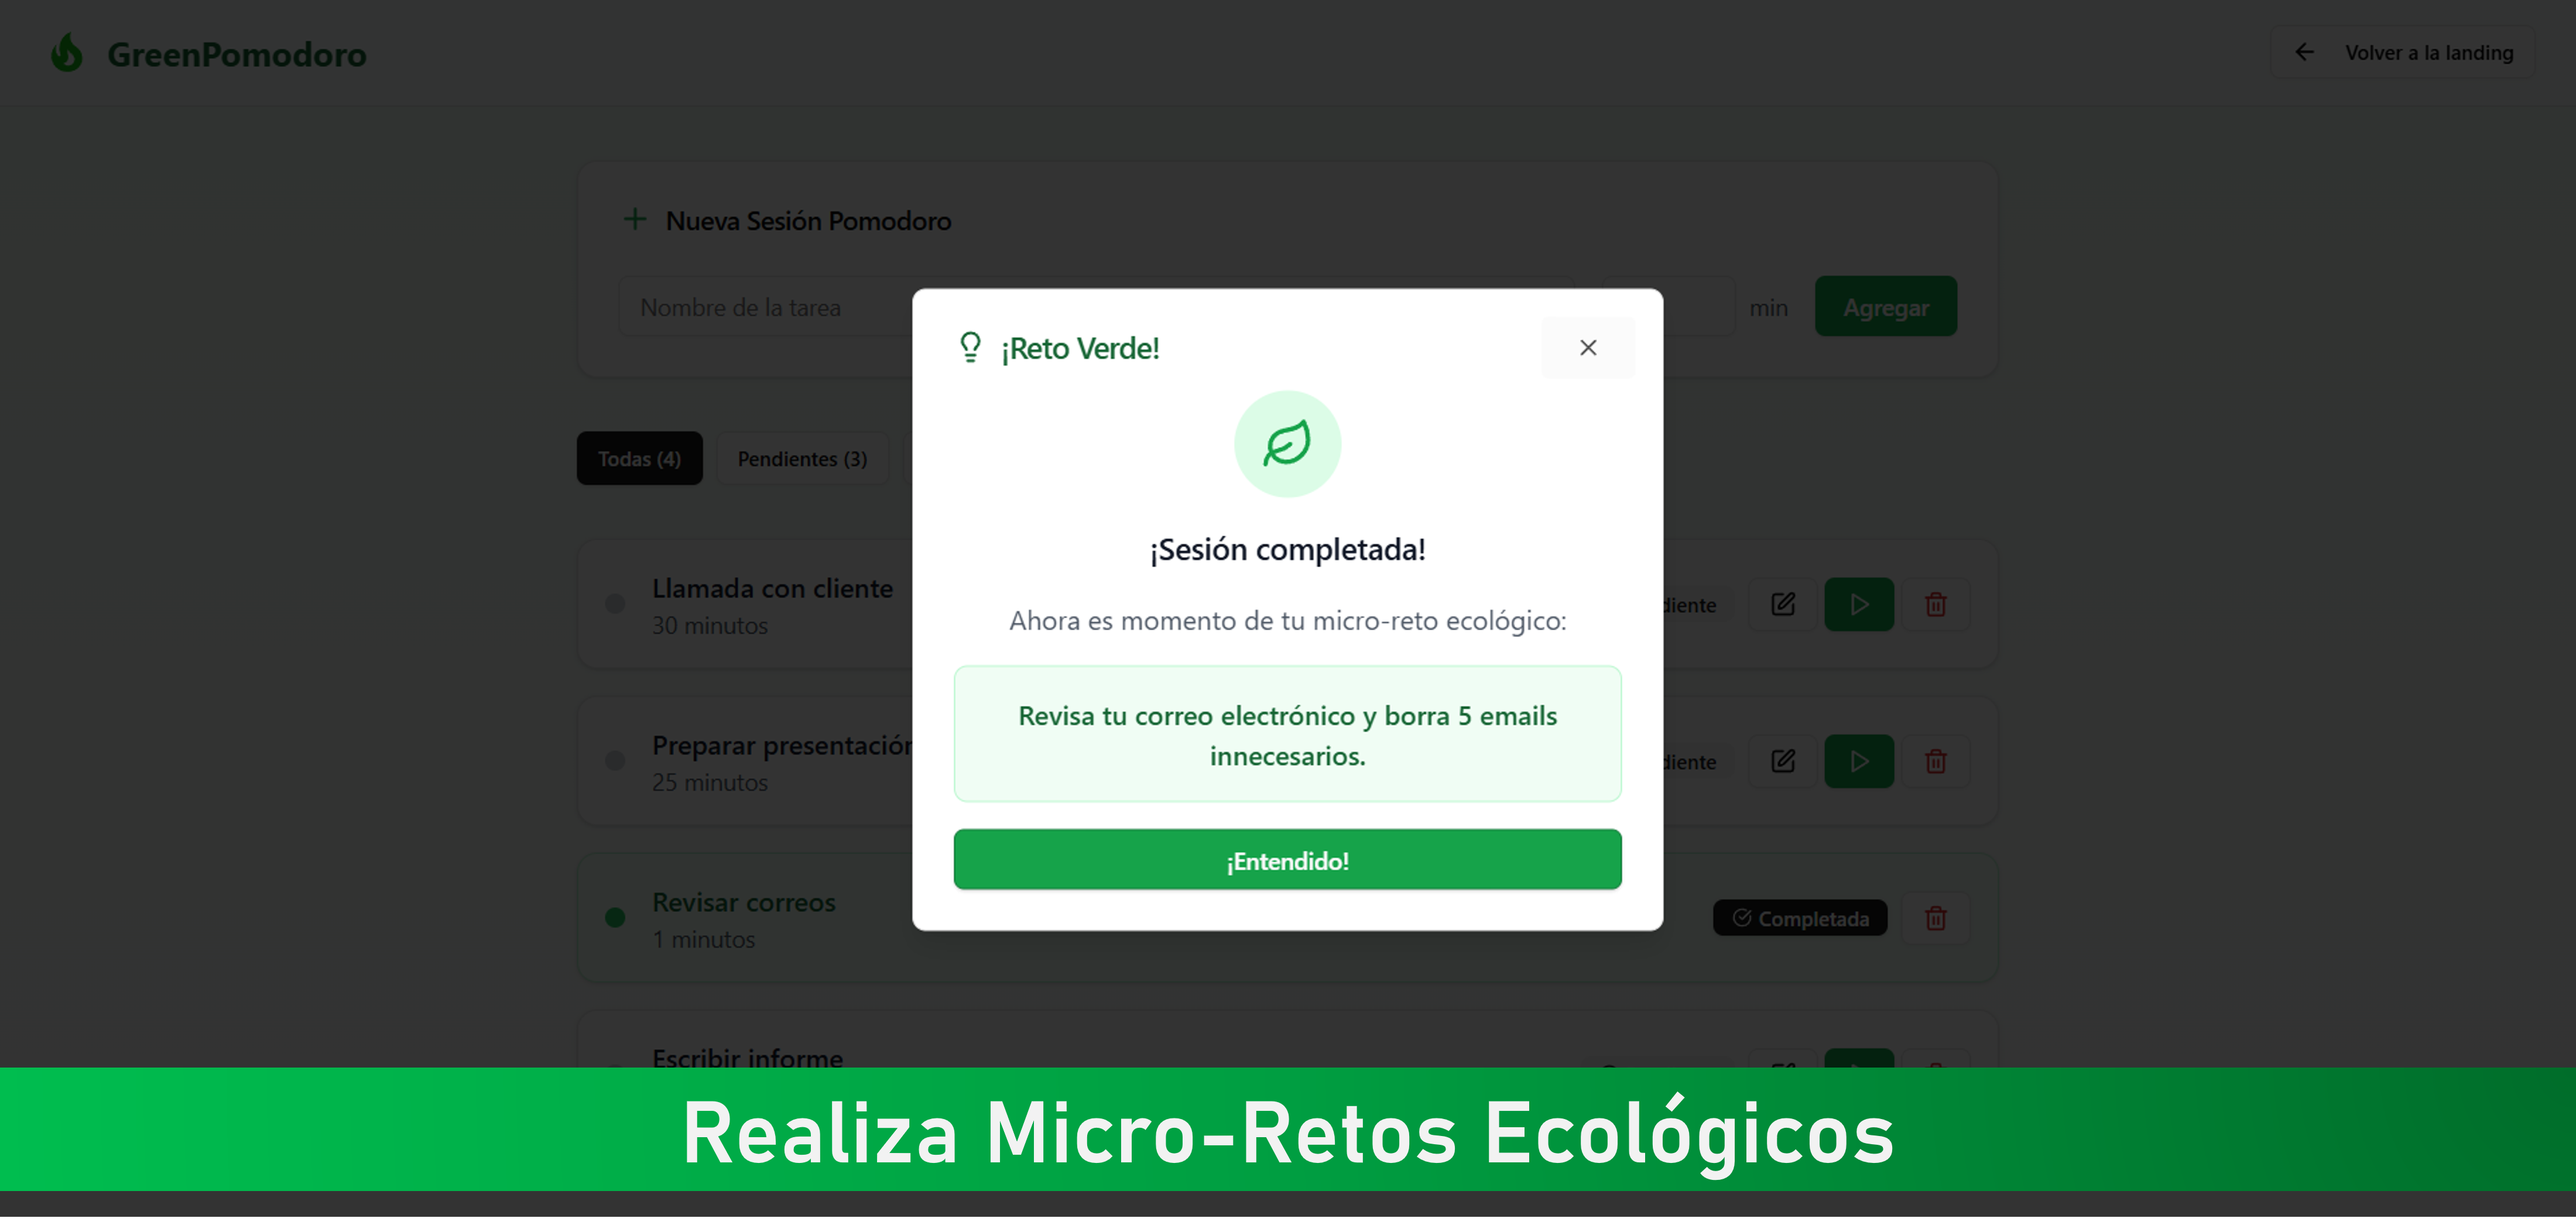
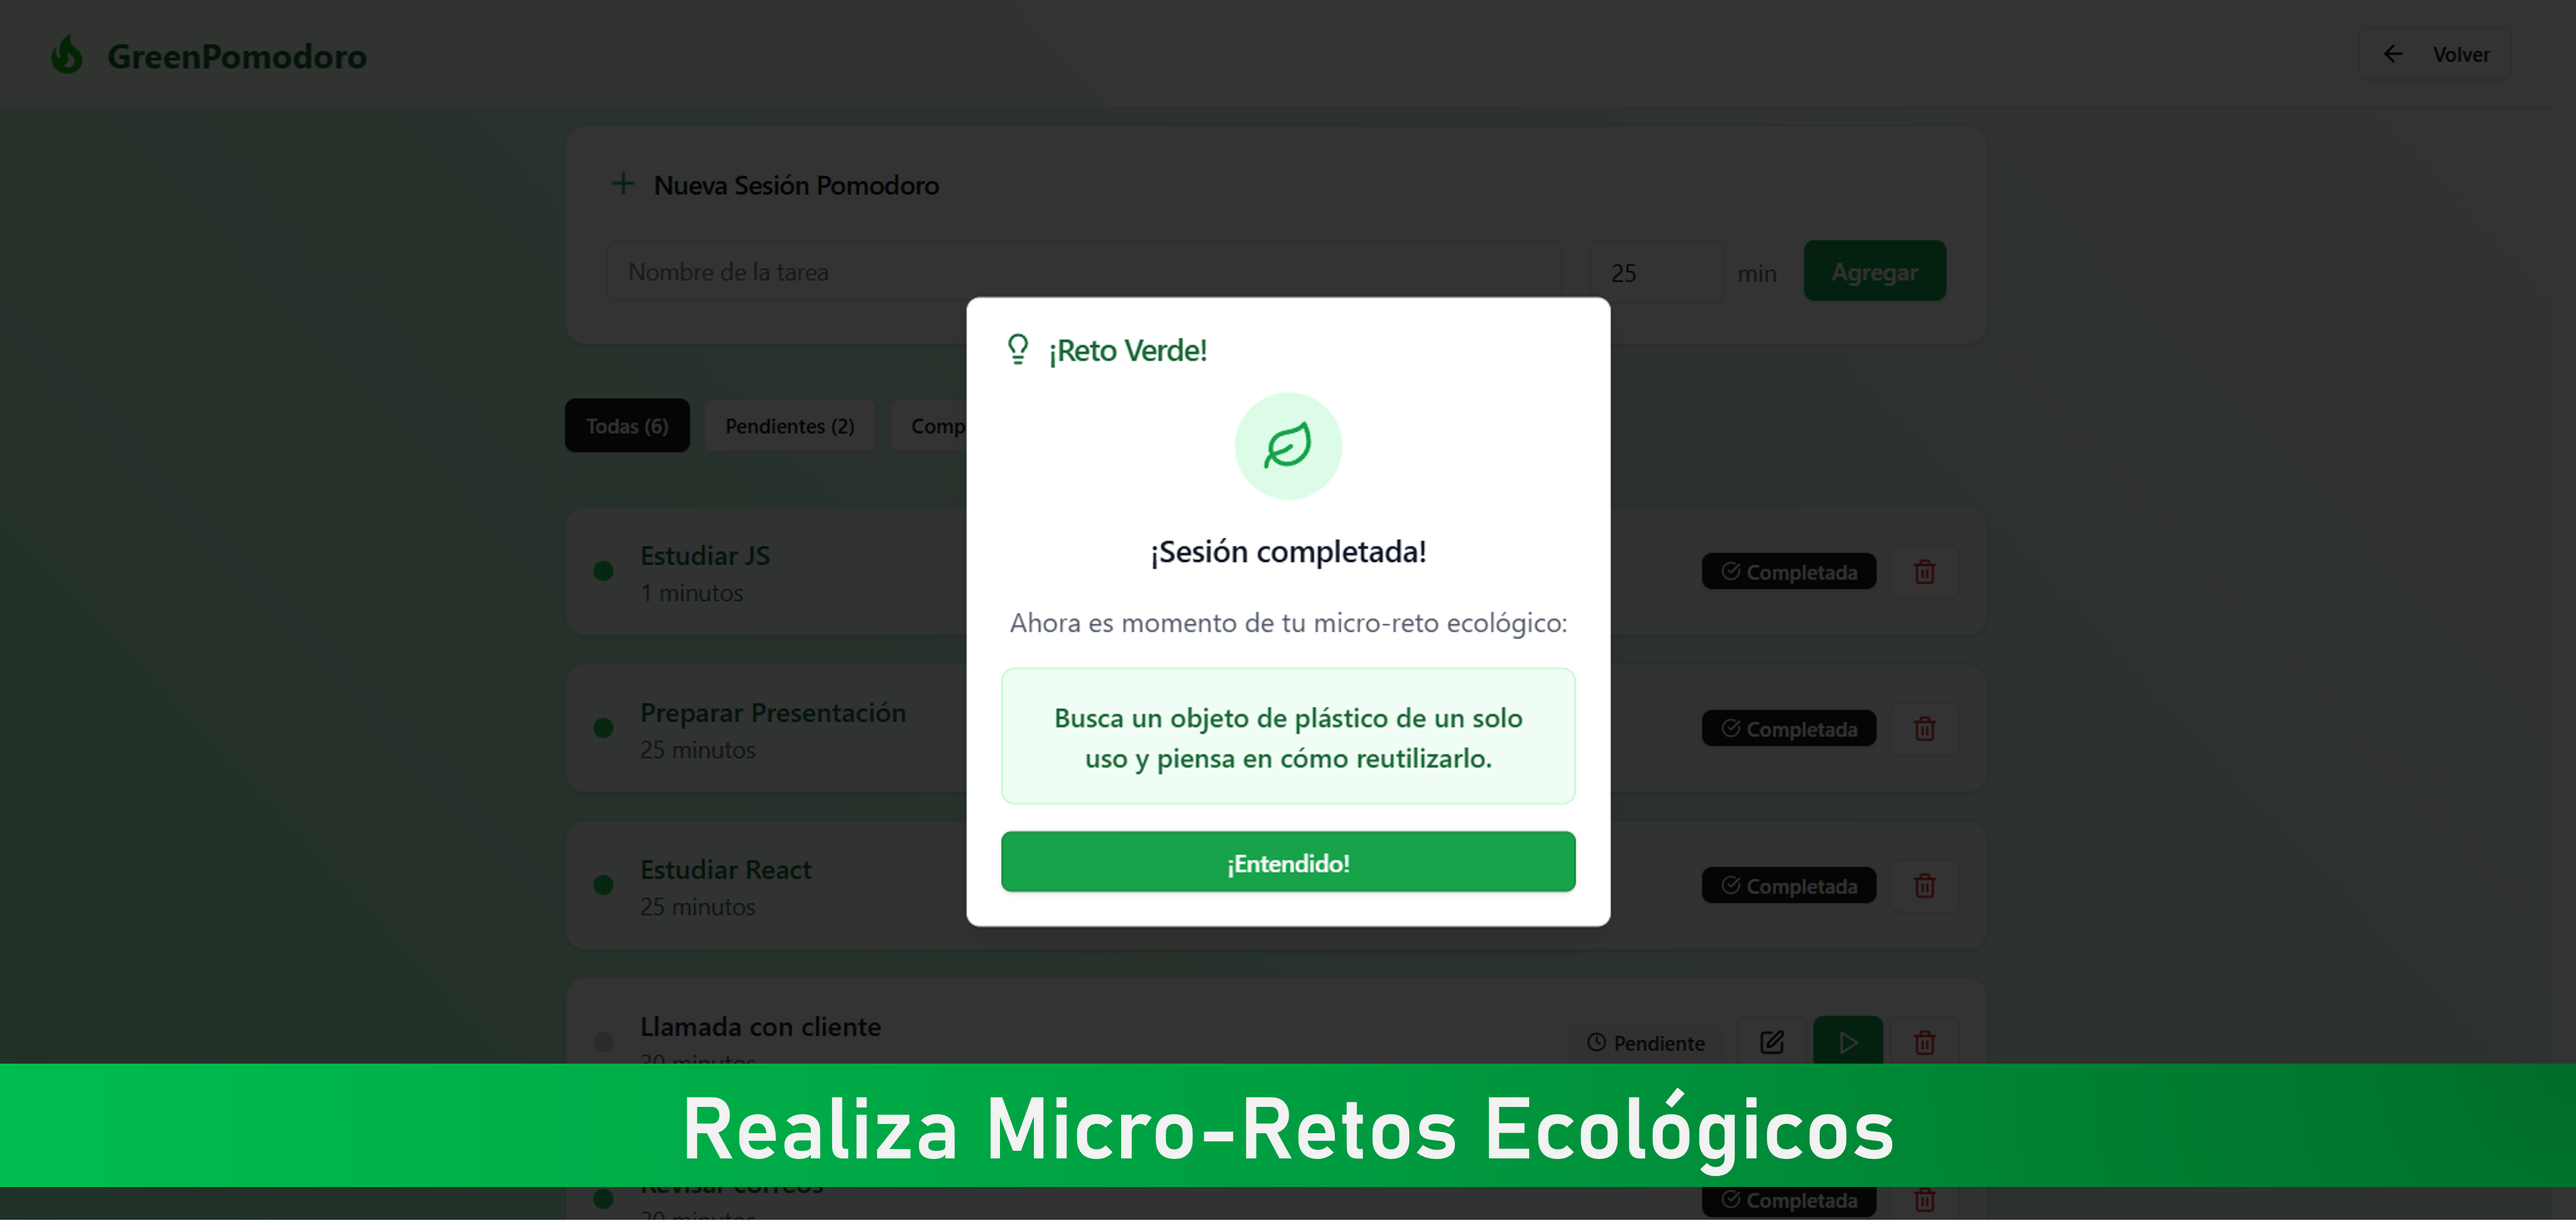
acomodando vista responsiva de las imagenes para tlf

diff --git a/frontend/src/components/landing/PreviewApp.jsx b/frontend/src/components/landing/PreviewApp.jsx
@@ -2,15 +2,26 @@ import React, { useState, useEffect, useRef } from "react"
 import { Card, CardContent } from "@/components/ui/card"
 import { ChevronLeft, ChevronRight } from "lucide-react"
 import { motion, AnimatePresence } from "framer-motion"
+import useIsMobile from "@/hooks/useIsMobile" // asegúrate de tener la ruta correcta
 
 export default function PreviewApp() {
-  const images = [
-    "/previewApp/previewApp-1.png",
-    "/previewApp/previewApp-2.png",
-    "/previewApp/previewApp-3.png",
-    "/previewApp/previewApp-4.png",
-    "/previewApp/previewApp-5.png",
-  ]
+  const isMobile = useIsMobile()
+
+  const images = isMobile
+    ? [
+        "/previewApp/previewAppMobile-1.png",
+        "/previewApp/previewAppMobile-2.png",
+        "/previewApp/previewAppMobile-3.png",
+        "/previewApp/previewAppMobile-4.png",
+        "/previewApp/previewAppMobile-5.png",
+      ]
+    : [
+        "/previewApp/previewApp-1.png",
+        "/previewApp/previewApp-2.png",
+        "/previewApp/previewApp-3.png",
+        "/previewApp/previewApp-4.png",
+        "/previewApp/previewApp-5.png",
+      ]
 
   const [currentIndex, setCurrentIndex] = useState(0)
   const intervalRef = useRef(null)
@@ -80,9 +91,9 @@ export default function PreviewApp() {
             <ChevronLeft className="h-6 w-6" />
           </button>
 
-          <div className="flex-grow relative h-[360px] md:h-[420px]">
-            <Card className="overflow-hidden shadow-2xl h-full">
-              <CardContent className="p-0 bg-gradient-to-br from-green-300 to-green-400 h-full flex items-center justify-center">
+          <div className="relative w-full aspect-[9/16] md:aspect-[16/9] max-w-sm sm:max-w-3xl">
+            <Card className="overflow-hidden shadow-2xl w-full h-full">
+              <CardContent className="p-0 bg-gradient-to-br from-green-300 to-green-400 w-full h-full flex items-center justify-center">
                 <AnimatePresence mode="wait">
                   <motion.img
                     key={currentIndex}

diff --git a/frontend/src/hooks/useIsMobile.js b/frontend/src/hooks/useIsMobile.js
@@ -1,0 +1,14 @@
+import { useEffect, useState } from "react"
+
+export default function useIsMobile(breakpoint = 768) {
+  const [isMobile, setIsMobile] = useState(false)
+
+  useEffect(() => {
+    const check = () => setIsMobile(window.innerWidth < breakpoint)
+    check()
+    window.addEventListener("resize", check)
+    return () => window.removeEventListener("resize", check)
+  }, [breakpoint])
+
+  return isMobile
+}
